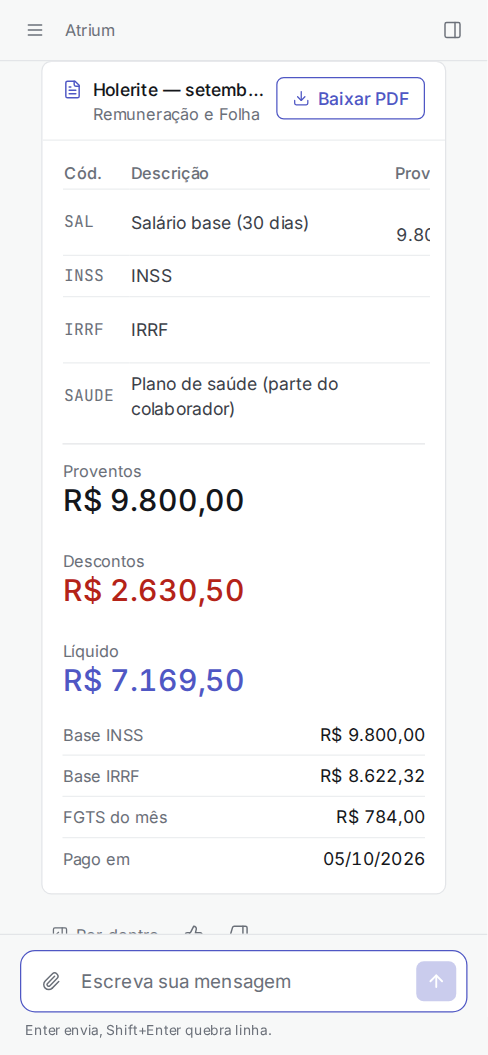
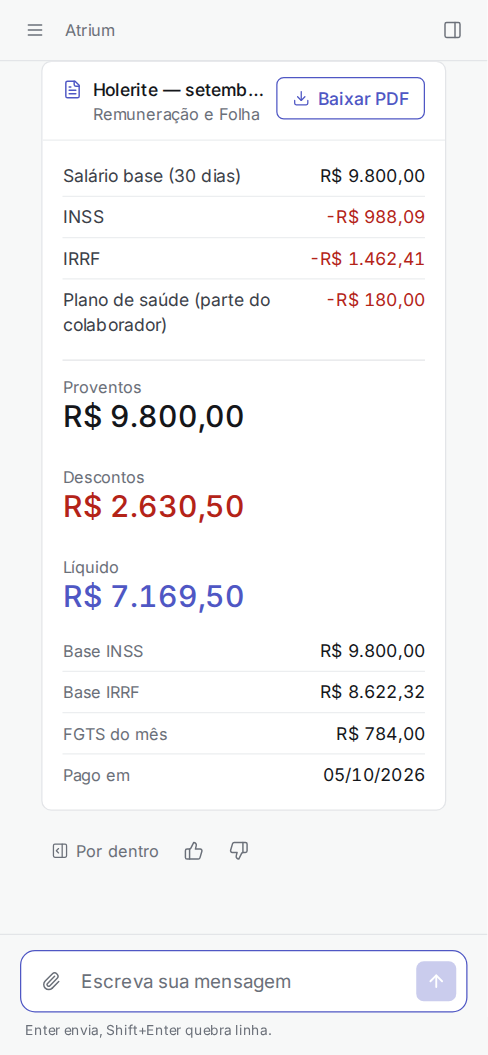
fix(web): payslip lines fit narrow screens, singular approval badge; docs: retaken screenshots incl. demo

diff --git a/frontend/src/components/cards/payroll.tsx b/frontend/src/components/cards/payroll.tsx
@@ -86,7 +86,18 @@ export function PayslipCard({ data, agentName }: CardProps): JSX.Element {
       agentName={agentName}
       action={<DownloadPdfButton url={d.pdf_url} filename={`holerite-${d.month}.pdf`} />}
     >
-      <ScrollArea>
+      {/* Narrow screens: one signed value per line (no horizontal scroll). */}
+      <ul className="sm:hidden">
+        {(d.lines ?? []).map((line, i) => (
+          <li key={i} className="flex items-baseline justify-between gap-3 border-t border-border-subtle py-1.5 first:border-t-0">
+            <span className="min-w-0 text-ui text-text-2">{line.label}</span>
+            <span className={clsx('tnum shrink-0 text-ui', line.deduction ? 'text-bad' : 'text-text')}>
+              {line.deduction ? `-${money(line.deduction)}` : money(line.earning ?? 0)}
+            </span>
+          </li>
+        ))}
+      </ul>
+      <ScrollArea className="hidden sm:block">
         <table className="w-full min-w-[420px] border-collapse text-ui">
           <thead>
             <tr className="text-left text-meta text-text-3">

diff --git a/frontend/src/components/ui.tsx b/frontend/src/components/ui.tsx
@@ -213,6 +213,6 @@ export function KeyValue({ label, value }: { label: string; value: ReactNode }):
 }
 
 /** Tables always scroll inside their own card so nothing overflows the layout. */
-export function ScrollArea({ children }: { children: ReactNode }): JSX.Element {
-  return <div className="scroll-thin -mx-1 overflow-x-auto px-1">{children}</div>;
+export function ScrollArea({ children, className }: { children: ReactNode; className?: string }): JSX.Element {
+  return <div className={clsx('scroll-thin -mx-1 overflow-x-auto px-1', className)}>{children}</div>;
 }

diff --git a/frontend/src/components/cards/people.tsx b/frontend/src/components/cards/people.tsx
@@ -284,7 +284,9 @@ export function TeamTableCard({ data, agentName }: CardProps): JSX.Element {
     >
       {d.highlights?.pending_approvals ? (
         <Badge tone="warn">
-          {t('team.pendingApprovals', { count: d.highlights.pending_approvals })}
+          {d.highlights.pending_approvals === 1
+            ? t('team.pendingApproval')
+            : t('team.pendingApprovals', { count: d.highlights.pending_approvals })}
         </Badge>
       ) : null}
       <ScrollArea>

diff --git a/frontend/src/i18n/pt-BR.ts b/frontend/src/i18n/pt-BR.ts
@@ -241,6 +241,7 @@ export const ptBR = {
   'team.days': '{days} dias',
   'team.quickAsk': 'Quantos dias de férias {name} tem?',
   'team.pendingApprovals': '{count} pedidos aguardando aprovação',
+  'team.pendingApproval': '1 pedido aguardando aprovação',
 
   'approvals.pending': 'Pedidos aguardando aprovação',
   'approvals.none': 'Nenhum pedido aguardando você.',

diff --git a/README.md b/README.md
@@ -139,8 +139,11 @@ and an HTTP adapter skeleton.
 
 | | |
 |---|---|
-| ![Calendar](docs/screenshots/chat-calendar.png) | ![Inside view](docs/screenshots/chat-inside-panel.png) |
-| ![Dark mode](docs/screenshots/chat-desktop-dark.png) | ![Mobile](docs/screenshots/chat-mobile.png) |
+| ![Vacation calendar with the best holiday bridges](docs/screenshots/chat-calendar.png) | ![Inside view: routing, tool decisions, guardrails](docs/screenshots/chat-inside-panel.png) |
+| ![Annual projection and PGBL, dark mode](docs/screenshots/chat-desktop-dark.png) | ![Payslip on a phone](docs/screenshots/chat-mobile.png) |
+| ![Governance console](docs/screenshots/console-overview.png) | ![Hash-chained audit log](docs/screenshots/console-audit.png) |
+| ![Agent Studio evaluation gate](docs/screenshots/studio-evaluation.png) | ![Agent Studio playground](docs/screenshots/studio-playground.png) |
+| ![Static demo](docs/screenshots/demo-desktop.png) | ![Static demo on a phone](docs/screenshots/demo-mobile.png) |
 
 ## Project layout
 
